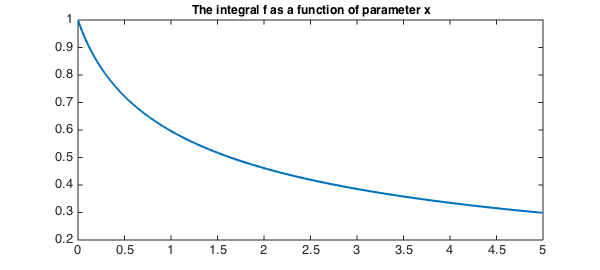
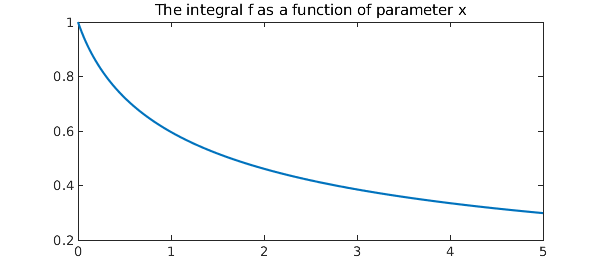
updating DivergentSeries

diff --git a/examples/approx/img/DivergentSeries.html b/examples/approx/img/DivergentSeries.html
@@ -8,14 +8,14 @@ meta: "(Chebfun example approx/DivergentSeries.m) [Tags: #Divergentseries, #PADE
 The function $$ f(x) = \int_0^{\infty} {e^{-t} \over 1 + xt} dt $$ is an easy one for Chebfun to evaluate.  For example, the value at $x=1$ is
 
 <pre class="mcode-input">format long
-sum(chebfun(@(t) exp(-t)./(1+t),[0 inf]))</pre><pre class="mcode-output">ans =
-   0.596347362323151
+sum(chebfun(@(t) exp(-t)/(1+t),[0 inf]))</pre><pre class="mcode-output">ans =
+   0.596347362323193
 </pre>It's not hard to make a Chebfun of the result, like this:
 
-<pre class="mcode-input">ff = @(x) sum(chebfun(@(t) exp(-t)./(1+x*t),[0 inf]));
-f = chebfun(ff,[0,5],'vectorize');
-hold off, plot(f,'linewidth',2)
-title('The integral f as a function of parameter x','fontsize',12)</pre><img src="img/DivergentSeries_01.png" class="figure" alt="">
+<pre class="mcode-input">ff = @(x) sum(chebfun(@(t) exp(-t)/(1+x*t),[0 inf]));
+f = chebfun(ff,[0,5]);
+hold off, plot(f)
+title('The integral f as a function of parameter x')</pre><img src="img/DivergentSeries_01.png" class="figure" alt="">
 
 One of the interesting features of $f$ is that its derivatives at $x=0$ are $(0!)^2, -(1!)^2, (2!)^2, -(3!)^2, \dots.$  Chebfun manages to compute a few of these, at any rate, to good accuracy:
 
@@ -23,30 +23,30 @@ One of the interesting features of $f$ is that its derivatives at $x=0$ are $(0!
   fj = diff(f,j);
   fprintf('%21.12f  (should be %7.0f)\n',fj(0),(-1)^j*factorial(j)^2)
 end</pre><pre class="mcode-output">       1.000000000000  (should be       1)
-      -0.999999999985  (should be      -1)
-       3.999999973601  (should be       4)
-     -35.999978174795  (should be     -36)
-     575.988230856771  (should be     576)
-  -14395.268464737528  (should be  -14400)
-  516870.744292268530  (should be  518400)
+      -0.999999999998  (should be      -1)
+       3.999999996404  (should be       4)
+     -35.999996324084  (should be     -36)
+     575.997547930357  (should be     576)
+  -14398.796599478534  (should be  -14400)
+  517929.744379208831  (should be  518400)
 </pre>In other words, at $x=0$, $f$ has the asymptotic series $$ f(x) \sim 0! - 1!x + 2!x^2 - 3! x^3 + \cdots . $$ It can't be a Taylor series, because the terms increase too fast: the radius of convergence is zero.
 
 And this brings us to the famous old problem of divergent series, going back to Euler in 1760 and with its own entry in Wikipedia [1].  What is the value of the series $$ 0! - 1! + 2!- 3! + \cdots = ~? $$ Of course the series simply doesn't converge, from one point of view. But this didn't stop Euler and Hardy and many others from discussing what it might mean for such a series to have a limit. And of course we know one pretty good candidate for an answer, namely the value $f(1)$ computed above:
 
 <pre class="mcode-input">f(1)</pre><pre class="mcode-output">ans =
-   0.596347362323194
+   0.596347362323191
 </pre>Suppose we try to estimate this limit from those not-quite-Taylor coefficients.  We could use the epsilon algorithm, which amounts to constructing a Pade approximation and evaluating it at $z=1$. Here's the result, showing 2 digits of accuracy:
 
 <pre class="mcode-input">r = padeapprox((-1).^(0:10).*factorial(0:10),5,5);
 r(1)</pre><pre class="mcode-output">ans =
-   0.597383362132809
+   0.597383362132805
 </pre>At $z=1/2$ we get 3 or 4 digits:
 
 <pre class="mcode-input">f(0.5)
 r(0.5)</pre><pre class="mcode-output">ans =
-   0.722657233776450
+   0.722657233776442
 ans =
-   0.722739361702128
+   0.722739361702127
 </pre>
 
 ## References

diff --git a/examples/approx/DivergentSeries.html b/examples/approx/DivergentSeries.html
@@ -63,17 +63,17 @@
 <div id='content' class="col-sm-12 example" role="main">
 <p>The function $$ f(x) = \int_0^{\infty} {e^{-t} \over 1 + xt} dt $$ is an easy one for Chebfun to evaluate.  For example, the value at $x=1$ is</p>
 <pre class="mcode-input">format long
-sum(chebfun(@(t) exp(-t)./(1+t),[0 inf]))</pre>
+sum(chebfun(@(t) exp(-t)/(1+t),[0 inf]))</pre>
 
 <pre class="mcode-output">ans =
-   0.596347362323151
+   0.596347362323193
 </pre>
 
 <p>It's not hard to make a Chebfun of the result, like this:</p>
-<pre class="mcode-input">ff = @(x) sum(chebfun(@(t) exp(-t)./(1+x*t),[0 inf]));
-f = chebfun(ff,[0,5],'vectorize');
-hold off, plot(f,'linewidth',2)
-title('The integral f as a function of parameter x','fontsize',12)</pre>
+<pre class="mcode-input">ff = @(x) sum(chebfun(@(t) exp(-t)/(1+x*t),[0 inf]));
+f = chebfun(ff,[0,5]);
+hold off, plot(f)
+title('The integral f as a function of parameter x')</pre>
 
 <p><img src="img/DivergentSeries_01.png" class="figure" alt=""></p>
 <p>One of the interesting features of $f$ is that its derivatives at $x=0$ are $(0!)^2, -(1!)^2, (2!)^2, -(3!)^2, \dots.$  Chebfun manages to compute a few of these, at any rate, to good accuracy:</p>
@@ -83,12 +83,12 @@ title('The integral f as a function of parameter x','fontsize',12)</pre>
 end</pre>
 
 <pre class="mcode-output">       1.000000000000  (should be       1)
-      -0.999999999985  (should be      -1)
-       3.999999973601  (should be       4)
-     -35.999978174795  (should be     -36)
-     575.988230856771  (should be     576)
-  -14395.268464737528  (should be  -14400)
-  516870.744292268530  (should be  518400)
+      -0.999999999998  (should be      -1)
+       3.999999996404  (should be       4)
+     -35.999996324084  (should be     -36)
+     575.997547930357  (should be     576)
+  -14398.796599478534  (should be  -14400)
+  517929.744379208831  (should be  518400)
 </pre>
 
 <p>In other words, at $x=0$, $f$ has the asymptotic series $$ f(x) \sim 0! - 1!x + 2!x^2 - 3! x^3 + \cdots . $$ It can't be a Taylor series, because the terms increase too fast: the radius of convergence is zero.</p>
@@ -96,7 +96,7 @@ end</pre>
 <pre class="mcode-input">f(1)</pre>
 
 <pre class="mcode-output">ans =
-   0.596347362323194
+   0.596347362323191
 </pre>
 
 <p>Suppose we try to estimate this limit from those not-quite-Taylor coefficients.  We could use the epsilon algorithm, which amounts to constructing a Pade approximation and evaluating it at $z=1$. Here's the result, showing 2 digits of accuracy:</p>
@@ -104,7 +104,7 @@ end</pre>
 r(1)</pre>
 
 <pre class="mcode-output">ans =
-   0.597383362132809
+   0.597383362132805
 </pre>
 
 <p>At $z=1/2$ we get 3 or 4 digits:</p>
@@ -112,9 +112,9 @@ r(1)</pre>
 r(0.5)</pre>
 
 <pre class="mcode-output">ans =
-   0.722657233776450
+   0.722657233776442
 ans =
-   0.722739361702128
+   0.722739361702127
 </pre>
 
 <h3 id="references">References</h3>

diff --git a/index.html b/index.html
@@ -269,5 +269,5 @@ plot(minx(1),minx(2),'.w')
     <script type="text/javascript" src="/js/config.js"></script>
     <script type="text/javascript" src="/js/jquery.flexslider-min.js"></script>
   </body>
-<!-- Compiled on Thursday, 15 April 2021 at 11:52. -->
+<!-- Compiled on Sunday, 18 April 2021 at 08:30. -->
 </html>

diff --git a/examples/approx/DivergentSeries.m b/examples/approx/DivergentSeries.m
@@ -9,14 +9,14 @@
 % The function $$ f(x) = \int_0^{\infty} {e^{-t} \over 1 + xt} dt $$ is an
 % easy one for Chebfun to evaluate.  For example, the value at $x=1$ is
 format long
-sum(chebfun(@(t) exp(-t)./(1+t),[0 inf]))
+sum(chebfun(@(t) exp(-t)/(1+t),[0 inf]))
 
 %%
 % It's not hard to make a Chebfun of the result, like this:
-ff = @(x) sum(chebfun(@(t) exp(-t)./(1+x*t),[0 inf]));
-f = chebfun(ff,[0,5],'vectorize');
-hold off, plot(f,'linewidth',2)
-title('The integral f as a function of parameter x','fontsize',12)
+ff = @(x) sum(chebfun(@(t) exp(-t)/(1+x*t),[0 inf]));
+f = chebfun(ff,[0,5]);
+hold off, plot(f)
+title('The integral f as a function of parameter x')
 
 %%
 % One of the interesting features of $f$ is that its derivatives at $x=0$
